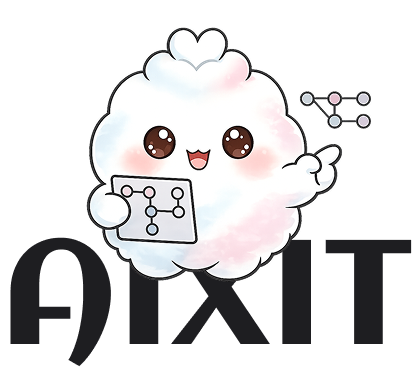
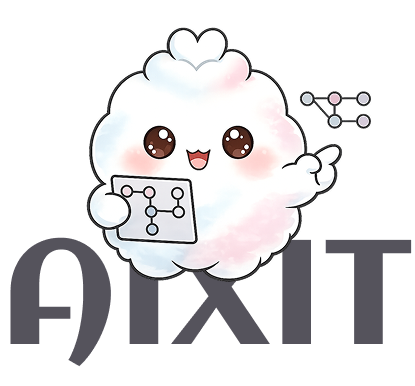
UI: remove top #1E1E21 strip; light manifest; new logo2 + intro assets
- Drop safe-area black bar from AdaptivePageHeader; padding-only top inset in app shell
- Sidebar logo uses /logo2.png with transparent chrome classes
- Replace landing intro PNG; cache-bust ?v=2
- Manifest theme/background #fafafa (meta theme-color unchanged)

Made-with: Cursor

Changed region(s): [[0.0, 0.5907, 0.7518, 0.9637], [0.7807, 0.6218, 1.0, 0.9016]]

diff --git a/src/components/layout/AdaptivePageHeader.tsx b/src/components/layout/AdaptivePageHeader.tsx
@@ -60,67 +60,55 @@ export function AdaptivePageHeader({
     <header
       className={cn(
         "sticky top-0 z-40 w-full shrink-0 shadow-none transition-[padding,background-color,border-color] duration-200 ease-out",
+        compact
+          ? "border-b border-zinc-200 bg-white py-2.5"
+          : "border-b border-transparent bg-transparent py-3 pb-4",
         className,
       )}
     >
-      {/* 브라우저 theme-color(#1E1E21)와 이어지는 상단 포인트 띠 — 본문 헤더와 분리 */}
-      <div
-        className="w-full shrink-0 bg-[#1E1E21]"
-        style={{ height: "max(6px, env(safe-area-inset-top, 0px))" }}
-        aria-hidden
-      />
       <div
         className={cn(
-          "transition-[padding,background-color,border-color] duration-200 ease-out",
-          compact
-            ? "border-b border-zinc-200 bg-white py-2.5"
-            : "border-b border-transparent bg-transparent py-3 pb-4",
+          appMainColumnClass,
+          "flex flex-col gap-3 transition-all duration-200 ease-out sm:flex-row sm:items-start sm:justify-between sm:gap-4",
+          compact && "gap-2",
         )}
       >
-        <div
-          className={cn(
-            appMainColumnClass,
-            "flex flex-col gap-3 transition-all duration-200 ease-out sm:flex-row sm:items-start sm:justify-between sm:gap-4",
-            compact && "gap-2",
-          )}
-        >
-          <div className="min-w-0 flex-1">
-            <h1
-              className={cn(
-                "flex flex-wrap items-baseline gap-x-2 gap-y-1 font-semibold tracking-tight text-zinc-950 transition-all duration-200 ease-out",
-                compact ? "text-lg sm:text-xl" : "text-2xl sm:text-3xl",
-              )}
-            >
-              <span className="min-w-0 [text-decoration:inherit]">{titleNode}</span>
-              {count != null ? (
-                <TitleCountChip
-                  count={count}
-                  className={cn("transition-all duration-200 ease-out", compact && "text-[10px]")}
-                />
-              ) : null}
-            </h1>
-            {description != null ? (
-              <div
-                className={cn(
-                  "overflow-hidden transition-[max-height,opacity] duration-200 ease-out",
-                  compact ? "pointer-events-none max-h-0 opacity-0" : "max-h-40 opacity-100",
-                )}
-              >
-                <p className="mt-1 mb-5 text-sm text-zinc-600">{description}</p>
-              </div>
+        <div className="min-w-0 flex-1">
+          <h1
+            className={cn(
+              "flex flex-wrap items-baseline gap-x-2 gap-y-1 font-semibold tracking-tight text-zinc-950 transition-all duration-200 ease-out",
+              compact ? "text-lg sm:text-xl" : "text-2xl sm:text-3xl",
+            )}
+          >
+            <span className="min-w-0 [text-decoration:inherit]">{titleNode}</span>
+            {count != null ? (
+              <TitleCountChip
+                count={count}
+                className={cn("transition-all duration-200 ease-out", compact && "text-[10px]")}
+              />
             ) : null}
-          </div>
-          {rightSlot ? (
+          </h1>
+          {description != null ? (
             <div
               className={cn(
-                "flex w-full shrink-0 justify-end sm:w-auto sm:justify-end sm:self-start",
-                compact ? "pt-0.5" : "pt-0.5 sm:pt-1",
+                "overflow-hidden transition-[max-height,opacity] duration-200 ease-out",
+                compact ? "pointer-events-none max-h-0 opacity-0" : "max-h-40 opacity-100",
               )}
             >
-              {rightSlot}
+              <p className="mt-1 mb-5 text-sm text-zinc-600">{description}</p>
             </div>
           ) : null}
         </div>
+        {rightSlot ? (
+          <div
+            className={cn(
+              "flex w-full shrink-0 justify-end bg-transparent sm:w-auto sm:justify-end sm:self-start",
+              compact ? "pt-0.5" : "pt-0.5 sm:pt-1",
+            )}
+          >
+            {rightSlot}
+          </div>
+        ) : null}
       </div>
     </header>
   );

diff --git a/src/components/layout/PrimarySidebar.tsx b/src/components/layout/PrimarySidebar.tsx
@@ -30,12 +30,15 @@ export function PrimarySidebar() {
 
   return (
     <aside className="flex h-full min-h-0 w-[220px] shrink-0 flex-col overflow-y-auto border-r border-zinc-200 bg-white px-3 py-6">
-      <Link href="/dashboard" className="block min-w-0 px-3 text-lg font-semibold tracking-tight text-zinc-950">
+      <Link
+        href="/dashboard"
+        className="block min-w-0 bg-transparent px-3 text-lg font-semibold tracking-tight text-zinc-950 shadow-none ring-0"
+      >
         {/* eslint-disable-next-line @next/next/no-img-element */}
         <img
-          src="/sidebar-logo.png"
+          src="/logo2.png?v=6"
           alt="AIXIT"
-          className="h-auto max-h-8 w-full max-w-full object-contain object-left"
+          className="h-auto max-h-8 w-full max-w-full bg-transparent object-contain object-left"
           draggable={false}
         />
       </Link>

diff --git a/src/components/landing/LandingPageClient.tsx b/src/components/landing/LandingPageClient.tsx
@@ -36,9 +36,9 @@ export default function LandingPageClient() {
   return (
     <main className="flex min-h-screen w-full flex-col items-center justify-center bg-white px-6 py-12 text-zinc-900">
       <div className="w-full max-w-[420px] text-center">
-        <div className="mx-auto w-full max-w-[min(100%,320px)] rounded-2xl bg-white p-2">
+        <div className="mx-auto w-full max-w-[min(100%,320px)] bg-transparent p-0">
           <Image
-            src="/landing-intro-aixit.png?v=1"
+            src="/landing-intro-aixit.png?v=2"
             alt="AIXIT"
             width={512}
             height={512}

diff --git a/src/app/(app)/layout.tsx b/src/app/(app)/layout.tsx
@@ -12,7 +12,9 @@ export default function AppShellLayout({ children }: { children: ReactNode }) {
           id={AIXIT_MAIN_SCROLL_ID}
           className="relative flex min-h-0 w-full min-w-0 flex-1 flex-col overflow-x-hidden overflow-y-auto overscroll-y-contain"
         >
-          <div className="flex min-h-0 min-w-0 flex-1 flex-col pt-10 pb-6">{children}</div>
+          <div className="flex min-h-0 min-w-0 flex-1 flex-col bg-transparent pb-6 pt-[max(1rem,env(safe-area-inset-top,0px))]">
+            {children}
+          </div>
         </div>
       </div>
     </div>
